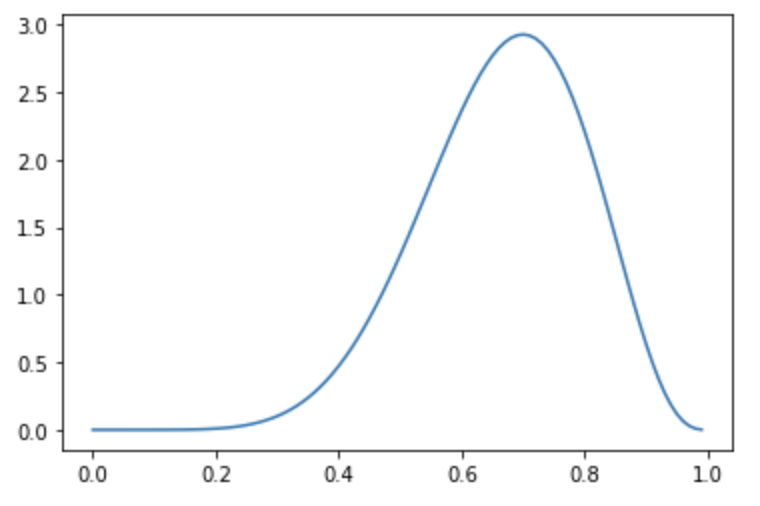
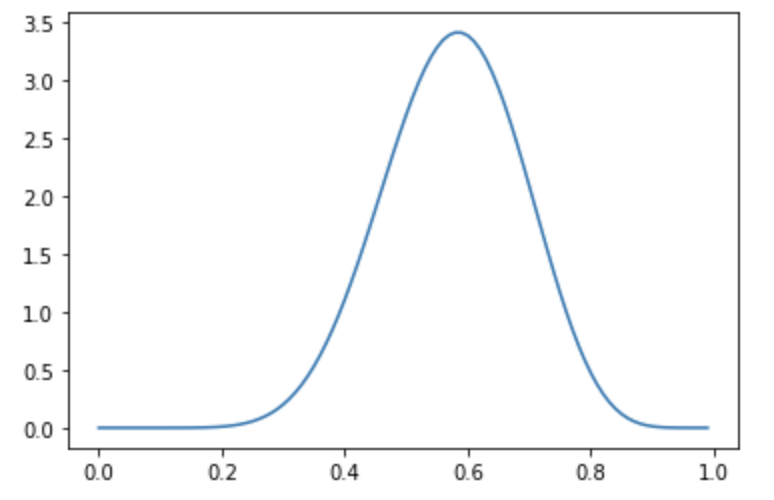
MAP&MLE追加

diff --git a/content/docs/pyro_vi/_index.md b/content/docs/pyro_vi/_index.md
@@ -23,8 +23,8 @@ weight: 1
 
 **例：袋の中のボールの比率の推論**
 
-赤玉と白玉が入っている袋があり、その中に入っている赤玉と白玉の数の比率（以下、混合比率）はわかっていません。ここで袋の中からランダムに１つを取り出しそのボールの色を確認後、箱の中に戻すという操作を複数回行います。
-この時、10回の試行で赤が7回、白が3回が出た場合、玉の混合比率の確率分布をPyroを用いて推論していくことにします。
+赤玉と白玉が入っている中身が見えない袋があります。袋の中の赤玉と白玉の数は同数入っている（混合比率=0.5）という事前情報がありますが、実際のところはわかっていません。そこで袋の中からランダムに１つを取り出しそのボールの色を確認後、箱の中に戻すという操作を複数回行います。
+この時、10回の試行で赤が６回、白が４回が出た場合、玉の混合比率についてどういう推論が可能でしょうか？ベイズ推論の枠組みに従い混合比率の確率分布をPyroを用いて推論していくことにします。
 
 ## 試行データ
 ここでまず上記例の試行結果のデータを作っておきます。
@@ -42,7 +42,7 @@ def create_data(red_num, white_num):
     data = torch.tensor(data)
     return data
 
-data = create_data(7, 3)
+data = create_data(6, 4)
 ```
 ## 確率モデルの構築
 混合比率の推論に向けて、まず最初に今回の事象が発生する確率モデルを構築します。
@@ -64,16 +64,17 @@ $$p(\mathbf{X}=\mathbf{x}, \Theta=\theta)=\prod_{i=1}^{N} p(X_i=x_i|\Theta=\thet
 $$p(X_i|\Theta=\theta)=\operatorname{Bern}(X_i, \theta)$$
 
 と仮定します。
-また今回の例の場合、袋の中の玉の比率に関しては0から1の値を取るということ以外は何の事前情報も持っていません。そのためここでは一様分布の形をとるベータ分布
-$$p(\Theta)=\operatorname{Beta}(\Theta|\alpha = 1, \beta = 1)$$
+また今回の例の場合、袋の中には赤玉と白玉同数入っているという事前情報があるのでそれをモデルに取り込むために、比率0.5に穏やかなピークをもつベータ分布
+$$p(\Theta)=\operatorname{Beta}(\Theta|\alpha = 2, \beta = 2)$$
 と仮定します[^beta]。
 
 この確率モデルをPyroで記述してみます。前節で述べたとおりPyroでは確率モデルを確率プリミティブを組み合わせた関数の形で記述します。今回のモデルは以下の様に実装することができます。
 ```python
+# 確率モデルの定義
 def model(data):
-    # 比率Thetaの事前確率分布は無情報、つまり一様分布と仮定する。
-    alpha0 = torch.tensor(1.0)
-    beta0 = torch.tensor(1.0)
+    # 事前確率分布は比率0.5に穏やかなピークを持つ関数を仮定する。
+    alpha0 = torch.tensor(2.0)
+    beta0 = torch.tensor(2.0)
     f = pyro.sample("Theta", dist.Beta(alpha0, beta0))
 
     # 観測データのプレート定義
@@ -88,10 +89,14 @@ Pyroでは条件付き独立な関係の確率変数を,グラフィカルモデ
 Pyroでは変分関数の定義もモデルの定義と同様に確率プリミティブを組み合わせた関数の形で記述します。Pyroではこの変分関数を定義する関数を`guide`と呼びます。
 ```python
 def guide(data):
+    # 変分パラメータαとβを定義する。
+    # 初期値は共に10としている。
+    # また、ベータ分布においてこれらのパラメータは正の値なので`constraints.positive`を指定。
     alpha_q = pyro.param("alpha_q", torch.tensor(10.0),
                          constraint=constraints.positive)
     beta_q = pyro.param("beta_q", torch.tensor(10.0),
                         constraint=constraints.positive)
+    # 最適化されたパラメータのベータ分布から混合率Θをサンプリングする
     pyro.sample("Theta", dist.Beta(alpha_q, beta_q))
 ```
 `guide`を定義する際、以下の点に注意する必要があります。
@@ -108,7 +113,7 @@ def guide(data):
 pyro.clear_param_store()
 
 # Optimizerの定義と設定（Adamの利用が推奨されている）
-adam_params = {"lr": 0.005, "betas": (0.95, 0.999)}
+adam_params = {"lr": 0.002, "betas": (0.95, 0.999)}
 optimizer = Adam(adam_params)
 
 # 推論アルゴリズムとLoss値を定義
@@ -116,8 +121,8 @@ optimizer = Adam(adam_params)
 svi = SVI(model, guide, optimizer, loss=Trace_ELBO())
 
 # 最適化の逐次計算
-# ここではAdamで勾配降下を5000回繰り返すことになる。
-n_steps = 5000
+# ここではAdamで勾配降下を1000回繰り返すことになる。
+n_steps = 1000
 losses = []
 for step in range(n_steps):
     loss = svi.step(data)
@@ -128,18 +133,20 @@ for step in range(n_steps):
 plt.plot(losses)
 ```
 ここで、最適化を行う前に、`pyro.clear_param_store()`を実行しています。これはPyroではグローバル変数として各変分パラメータを保持しているため、それを消す処理を行っています。
-またこのコードでは、`svi.step()`はLoss値（ELBOの符号逆転値）が返却されるので、Lossの変化をプロットしています。結果は以下の図のようになります。SVI(Stochastic Variational Inference)は確率的勾配降下法(SGD)と同様に計算速度を上げるためにミニバッチで勾配計算を行う[^review_vi]ためLossがランダムに振動していますが、5000回イタレーションを繰り返すと、ELBOが小さいところで落ち着いているのが見てとれます。
+またこのコードでは、`svi.step()`はLoss値（ELBOの符号逆転値）が返却されるので、Lossの変化をプロットしています。結果は以下の図のようになります。SVI(Stochastic Variational Inference)は確率的勾配降下法(SGD)と同様に計算速度を上げるためにミニバッチで勾配計算を行う[^review_vi]ためLossがランダムに振動していますが、1000回イタレーションを繰り返すと、ELBOが小さいところで落ち着いているのが見てとれます。
 
 <center>
 <img src="svi_ball_elbo.png" width="300">
 </center>
 
-この最適化後の変分パラメータは以下のコードで取得できます。
+この最適化後の変分パラメータは以下のコードのように`pyro.param`で取得できます。
 ```python
 # 最適化後の変分パラメータを取得する
 alpha_q = pyro.param("alpha_q").item()
 beta_q = pyro.param("beta_q").item()
 print("alpha_q = {:.2f}, beta_q = {:.2f}".format(alpha_q, beta_q))
+## Output
+#alpha_q = 10.55, beta_q = 7.80
 ```
 我々は混合分布の事後確率分布をベータ分布と仮定していましたから、上記のパラメータを用いて事後確率分布の様子をプロットして確認してみましょう。
 ```python
@@ -149,15 +156,37 @@ estimated_dist = dist.Beta(alpha_q, beta_q)
 y = [estimated_dist.log_prob(torch.tensor([x])).exp() for x in x_range]
 plt.plot(x_range, y)
 ```
-得られるグラフは下図のようになります。事後分布$p(\Theta|X)$は0.7付近が最も大きくなっており、これは10回の試行で赤が7回出た観測事象と辻褄が合っているのがわかります。ただし10回の観測ではまだ混合比率に曖昧性があり、確率分布の裾野が比較的広い確率分布となります。
+得られるグラフは下図のようになります。事後分布$p(\Theta|X)$は0.6付近が最も大きくなっており、これは10回の試行で赤が6回出た観測事象と辻褄が合っているのがわかります。ただし10回の観測ではまだ混合比率に曖昧性があり、確率分布の裾野が比較的広い確率分布となります。
 
 <center>
 <img src="pdf_beta_10.png" width="300">
 </center>
 
-さらに観測回数を増やして100回の試行でそのうち赤が70回、白が30回取り出された場合はどのような混合比率の事後分布になるでしょうか？
-試行データ作成時に`data = create_data(70, 30)`としてデータを作成して同様の推論を行ってみます。
-すると結果の事後分布は下記のような形となり、10回の時よりも混合比率が0.7である確信が強まり、確率分布の裾野が10回の思考の場合よりも狭まっているのがわかります。
+より具体的に今回推論された確率分布の最頻値を求めてみましょう。
+計算結果は以下のようになります。
+ここで、最頻値0.584となっており、観測結果の0.6より小さくなっているのに注意してください。これは事前確率として0.5をピークに持つ関数を設定していることにより起きています。観測だけを信じると0.6ですが、試行回数が10回程度であればその結果だけを信じて取り込むよりも事前情報の0.5もある程度加味された事後分布になっているという状況です。
+
+```python
+# 最頻値を計算
+mode = (alpha_q - 1) / (alpha_q + beta_q - 2)
+print("mode = {:.3f}".format(mode))
+
+# 平均値を計算
+mean = alpha_q / (alpha_q + beta_q)
+# 標準偏差を計算
+factor = beta_q / (alpha_q * (1.0 + alpha_q + beta_q))
+std = mean * np.sqrt(factor)
+print("infered ratio = {:.3f} +- {:.3f}".format(mean, std))
+## Output
+# mode = 0.584
+# infered ratio = 0.575 +- 0.112
+```
+
+
+
+さらに観測回数を増やして1000回の試行でそのうち赤が600回、白が400回取り出された場合はどのような混合比率の事後分布になるでしょうか？
+試行データ作成時に`data = create_data(600, 400)`としてデータを作成して同様の推論を行ってみます。
+すると結果の事後分布は下記のような形となり、10回の時よりも混合比率が0.6である確信が強まり、確率分布の裾野が10回の思考の場合よりも狭まっているのがわかります。
 
 <center>
 <img src="pdf_beta_100.png" width="300">

diff --git a/content/docs/mle_map/_index.md b/content/docs/mle_map/_index.md
@@ -1,0 +1,157 @@
+---
+title: MAP推定と最尤推定
+weight: 1
+---
+<script type="text/javascript" async src="https://cdnjs.cloudflare.com/ajax/libs/mathjax/2.7.7/MathJax.js?config=TeX-MML-AM_CHTML">
+</script>
+<script type="text/x-mathjax-config">
+ MathJax.Hub.Config({
+ tex2jax: {
+ inlineMath: [['$', '$'] ],
+ displayMath: [ ['$$','$$'], ["\\[","\\]"] ]
+ }
+ });
+</script>
+
+# MAP推定と最尤推定
+前節までで変分近似を用いてベイズ推論を行ってきました。ベイズ推論は観測出来ない潜在パラメータを確率変数と捉え、ベイズの定理を利用して観測データ$\mathbf{X}$からそのパラメータの**確率分布を推定する**ものでした。つまり潜在パラメータの確率変数を$\Theta$とすると下記の関係性を用いて事後分布$p(\Theta|\mathbf{X})$を求めることがベイズ推定です。
+$$
+p(\Theta|\mathbf{X}) = \frac{p(\mathbf{X}|\Theta)p(\Theta)}{p(\mathbf{X})}\tag{1}
+$$
+
+一方でわざわざ確率分布まで求めなくても、確率分布の最も頻度が高くなる一点を簡易的に求めれば事足りる場合も多々あります。そのような手法としてMAP推定や最尤推定と呼ばれる手法があります。本節ではこれらを紹介したうえでPyroでの計算方法を紹介します。
+
+## ■MAP推定
+MAP推定は事後分布$p(\Theta|\mathbf{X})$において最も確率が大きくなる実現値つまり、
+$$
+\theta_{MAP} = \underset{\theta}{\operatorname{argmax}}~p(\Theta=\theta|\mathbf{X})=\underset{\theta}{\operatorname{argmax}}~p(\mathbf{X}|\Theta=\theta)p(\theta)\tag{2}
+$$
+となる$\theta_{MAP}$を求める作業になります。ここで２つ目の等式は(1)式の関係性から容易に導けるでしょう。
+
+さて、これまで変分推論では事後確率に近しいと想定される近似関数を用意し、その近似関数の形が本来求めたい事後確率分布に近づくようにELBOを最大化するように近似関数のパラメータを最適化しました。その変分推論の枠組みに当てはめたとき、(2）式は近似関数$q(\theta)$をデルタ関数$\delta(\theta-\theta_{MAP})$と仮定して$\theta_{MAP}$を変分推論の特殊な例として解釈が可能です。
+
+ここでデルタ関数$\delta(\theta-\theta_{MAP})$は$\theta=\theta_{MAP}$で∞になり、それ以外の$\theta$ではゼロをとる無限に尖った関数であり$\int\delta(\theta-\theta_{MAP})d\theta=1$となります。
+
+以上のとおりMAP推定はデルタ関数を近似関数とした変分推論と解釈できるならPyroでも`guide`関数にデルタ関数を指定してあげればMAP推定が可能になります。実際に前節の赤玉白玉の混合比率を例にPyroでMAP推定してみましょう。
+
+### 試行データ生成
+試行結果データを生成するコードは前節と全く同様です。
+```python
+# 試行データ作成（前節と同一コード）
+def create_data(red_num, white_num):
+    red = torch.tensor(1.0)
+    white = torch.tensor(0.0)
+    data = []
+    for _ in range(red_num):
+        data.append(red)
+    for _ in range(white_num):
+        data.append(white)
+    random.shuffle(data)
+    data = torch.tensor(data)
+    return data
+
+data = create_data(6, 4)
+```
+
+### 最適化ヘルパー関数を定義
+後ほど最尤推定でも使うために最適化の一連の処理を関数化します。
+```python
+# 最適化計算用のヘルパー関数
+#　引数として指定されたmodelの関数とguide関数を用いてELBOの最大化を行う
+def optimize_param(model_fn, guide_fn):
+    # グローバル変数として保存されているパラメータを削除
+    pyro.clear_param_store()
+
+    # Optimizerの定義と設定（Adamの利用が推奨されている）
+    adam_params = {"lr": 0.001, "betas": (0.95, 0.999)}
+    optimizer = Adam(adam_params)
+
+    # 推論アルゴリズムとLoss値を定義
+    # ここでは組み込みのELBOの符号反転をLoss値とする`Trace_ELBO()`を利用しています。
+    svi = SVI(model_fn, guide_fn, optimizer, loss=Trace_ELBO())
+
+    # 最適化の逐次計算
+    # ここではAdamで勾配降下を1000回繰り返すことになる。
+    n_steps = 1000
+    losses = []
+    for step in range(n_steps):
+        loss = svi.step(data)
+        losses.append(loss)
+        if step % 100 == 0:
+            print('#', end='')
+
+    plt.plot(losses)
+    plt.show()
+```
+### 確率モデルと変分関数
+上述のようにMAP推定は変分推論の枠組みで変分関数としてデルタ関数を仮定するものというお話をしました。そのため確率モデルは前節と全く同じでよく、また変分関数を規定する`guide`関数はデルタ分布を用います。
+```python
+# 確率モデルの定義
+def model(data):
+    # 事前確率分布は比率0.5に穏やかなピークを持つ関数を仮定する。
+    alpha0 = torch.tensor(2.0)
+    beta0 = torch.tensor(2.0)
+    f = pyro.sample("Theta", dist.Beta(alpha0, beta0))
+
+    # 観測データのプレート定義
+    with pyro.plate('observation'):
+      pyro.sample('X', dist.Bernoulli(f), obs=data)
+
+# MAP推定や最終推定は変分関数としてデルタ関数を仮定する。
+def guide_delta(data):
+    theta_opt = pyro.param("theta_opt", torch.tensor(0.5),
+                       constraint=constraints.unit_interval)
+    pyro.sample("Theta", dist.Delta(theta_opt))
+```
+確率モデルと変分関数が用意できたら、変分関数のパラメータ（今回の場合`theta_opt`）の最適化を行います。
+```python
+#　MAP推定用のmodel関数とguide関数を指定して最適化を実施
+optimize_param(model_map, guide_delta)
+
+# 最適化後の変分パラメータを取得する
+theta = pyro.param("theta_opt").item()
+print("theta_opt = {:.3f}".format(theta))
+## Output
+# theta_opt = 0.583
+```
+上記の結果、`thata_opt`つまり$\theta_{MAP}S$は`0.583`となりました。前節で求めた事後確率分布の最頻値とほぼ同じ値が求まったことに注意してください。確率分布までは求まらないけど、確率分布の最頻値をとる潜在パラメータの値を求めるのがMAP推定です。
+
+また、試行データを作成する際に、`data = create_data(60, 40)`として、合計100回の試行データを作成すると`theta_opt = 0.599`となります。これは試行回数が増えれば増えるほど、最初に想定していた事前確率分布よりも試行データのほうが重みが増えて試行データの結果の比に近づいていくことを示しています。
+
+
+## ■最尤推定
+単に観測データ$\mathbf{X}$に対する尤度が最大となる$\theta$を求める、すなわち
+$$
+\theta_{MLE} = \underset{\theta}{\operatorname{argmax}}~p(\mathbf{X}|\Theta=\theta)
+$$
+となる$\theta_{MLE}$を求めるのが最尤推定（Maximum Likelihood Estimation: MLE）です。
+
+これは(2)式と見比べると潜在パラメータの事前分布を$p(\Theta)$を一定値とした（すなわち事前情報がないとした）MAP推定をしていると解釈することができます。
+
+以上のことから最尤推定を行う場合、事前分布が一様分布、かつ`guide`関数がデルタ関数として変分推論をPyroで実行すればよいことが分かります。確率モデルは下記のように定義することができます。0~1の範囲で一様分布となる`dist.Uniform(0.0, 1.0)`で事前分布が定義されているのに注意してください。
+```python
+# 最尤推定用に確率モデルの定義（ベイズ推定の際と全く同じことに注意）
+def model_mle(data):
+    # 事前確率分布は一定値（無情報）として一様分布を指定する
+    f = pyro.sample("Theta", dist.Uniform(0.0, 1.0))
+
+    # 観測データのプレート定義
+    with pyro.plate('observation'):
+      pyro.sample('X', dist.Bernoulli(f), obs=data)
+```
+上記の確率モデル関数を用いて最適化を以下のように行うことができます。
+```python
+#　MAP推定用のmodel関数とguide関数を指定して最適化を実施
+optimize_param(model_mle, guide_delta)
+
+# 最適化後の変分パラメータを取得する
+theta = pyro.param("theta_opt").item()
+print("theta_opt = {:.3f}".format(theta))
+## Output
+theta_opt = 0.600
+```
+
+`thata_opt`つまり$\theta_{MAP}S$は`0.600`となりました。ちなみに`data = create_data(3, 2)`というように試行回数を幾ら減らしたデータを用いても`\theta_{MAP}=0.600`という結果は変わりません。これは最尤推定では例えば比率が半分である可能性が高いといったような事前情報を導入していないため、試行データだけをもとに比率を推定したことに起因します。その結果「赤玉と白玉がそれぞれ3回と2回取り出された」という結果に過剰適合（Overfitting）した結果になります。
+
+
+

diff --git a/content/menu/index.md b/content/menu/index.md
@@ -7,5 +7,6 @@ headless: true
 - [ベイズ学習の枠組み]({{< relref "/docs/bayes_learning_basic" >}})
 - [変分推論の基礎]({{< relref "/docs/vi_basic" >}})
 - [変分推論を試す]({{< relref "/docs/pyro_vi" >}})
+- [MAP推定と最尤推定]({{< relref "/docs/mle_map" >}})
 <br/>
 <br/>
